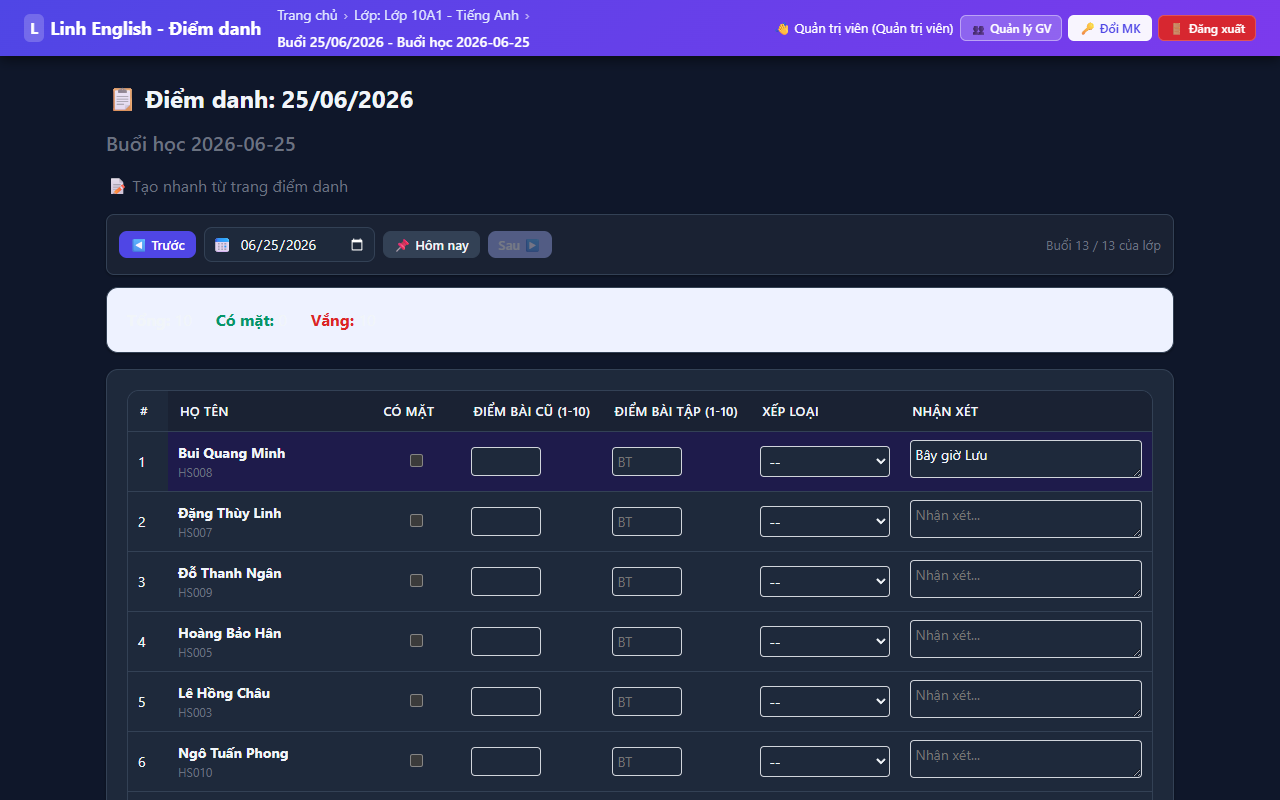
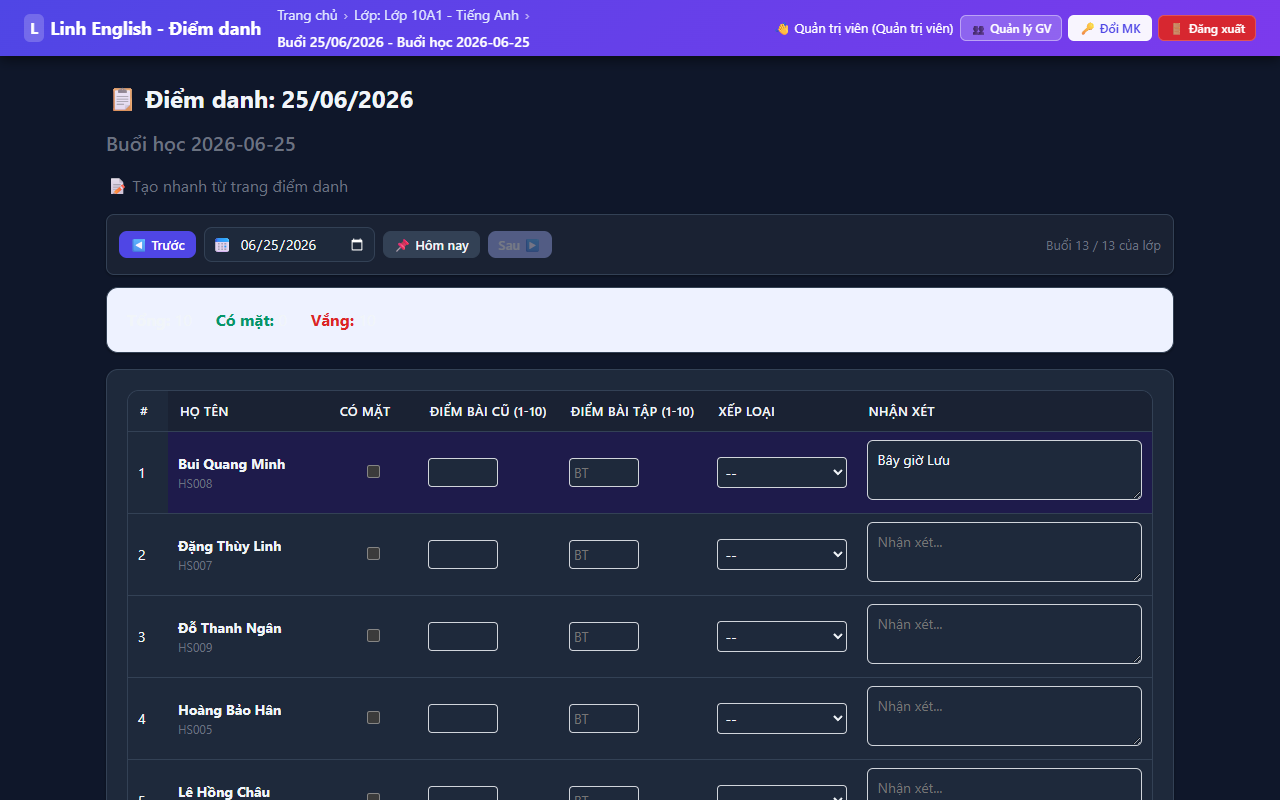
update

diff --git a/frontend/js/app.js b/frontend/js/app.js
@@ -1348,12 +1348,24 @@ function paintSessionEditor(editable) {
       tdGrade.appendChild(sel);
       tr.appendChild(tdGrade);
 
-      // Nhận xét
+      // Nhận xét - textarea rộng và cao hơn để dễ gõ
       const tdNote = document.createElement('td');
       const ta = document.createElement('textarea');
-      ta.rows = 1;
+      ta.rows = 2;
       ta.placeholder = 'Nhận xét...';
-      ta.style.cssText = 'width:100%;padding:4px;border:1px solid #d1d5db;border-radius:4px;resize:vertical';
+      ta.style.cssText = [
+        'width:100%',
+        'min-width:240px',
+        'min-height:60px',
+        'padding:8px 10px',
+        'font-size:14px',
+        'line-height:1.5',
+        'font-family:inherit',
+        'border:1px solid #d1d5db',
+        'border-radius:6px',
+        'resize:vertical',
+        'box-sizing:border-box',
+      ].join(';');
       ta.value = a.teacher_note || '';
       ta.addEventListener('input', function () { a.teacher_note = ta.value; scheduleDraftSave(); });
       tdNote.appendChild(ta);
